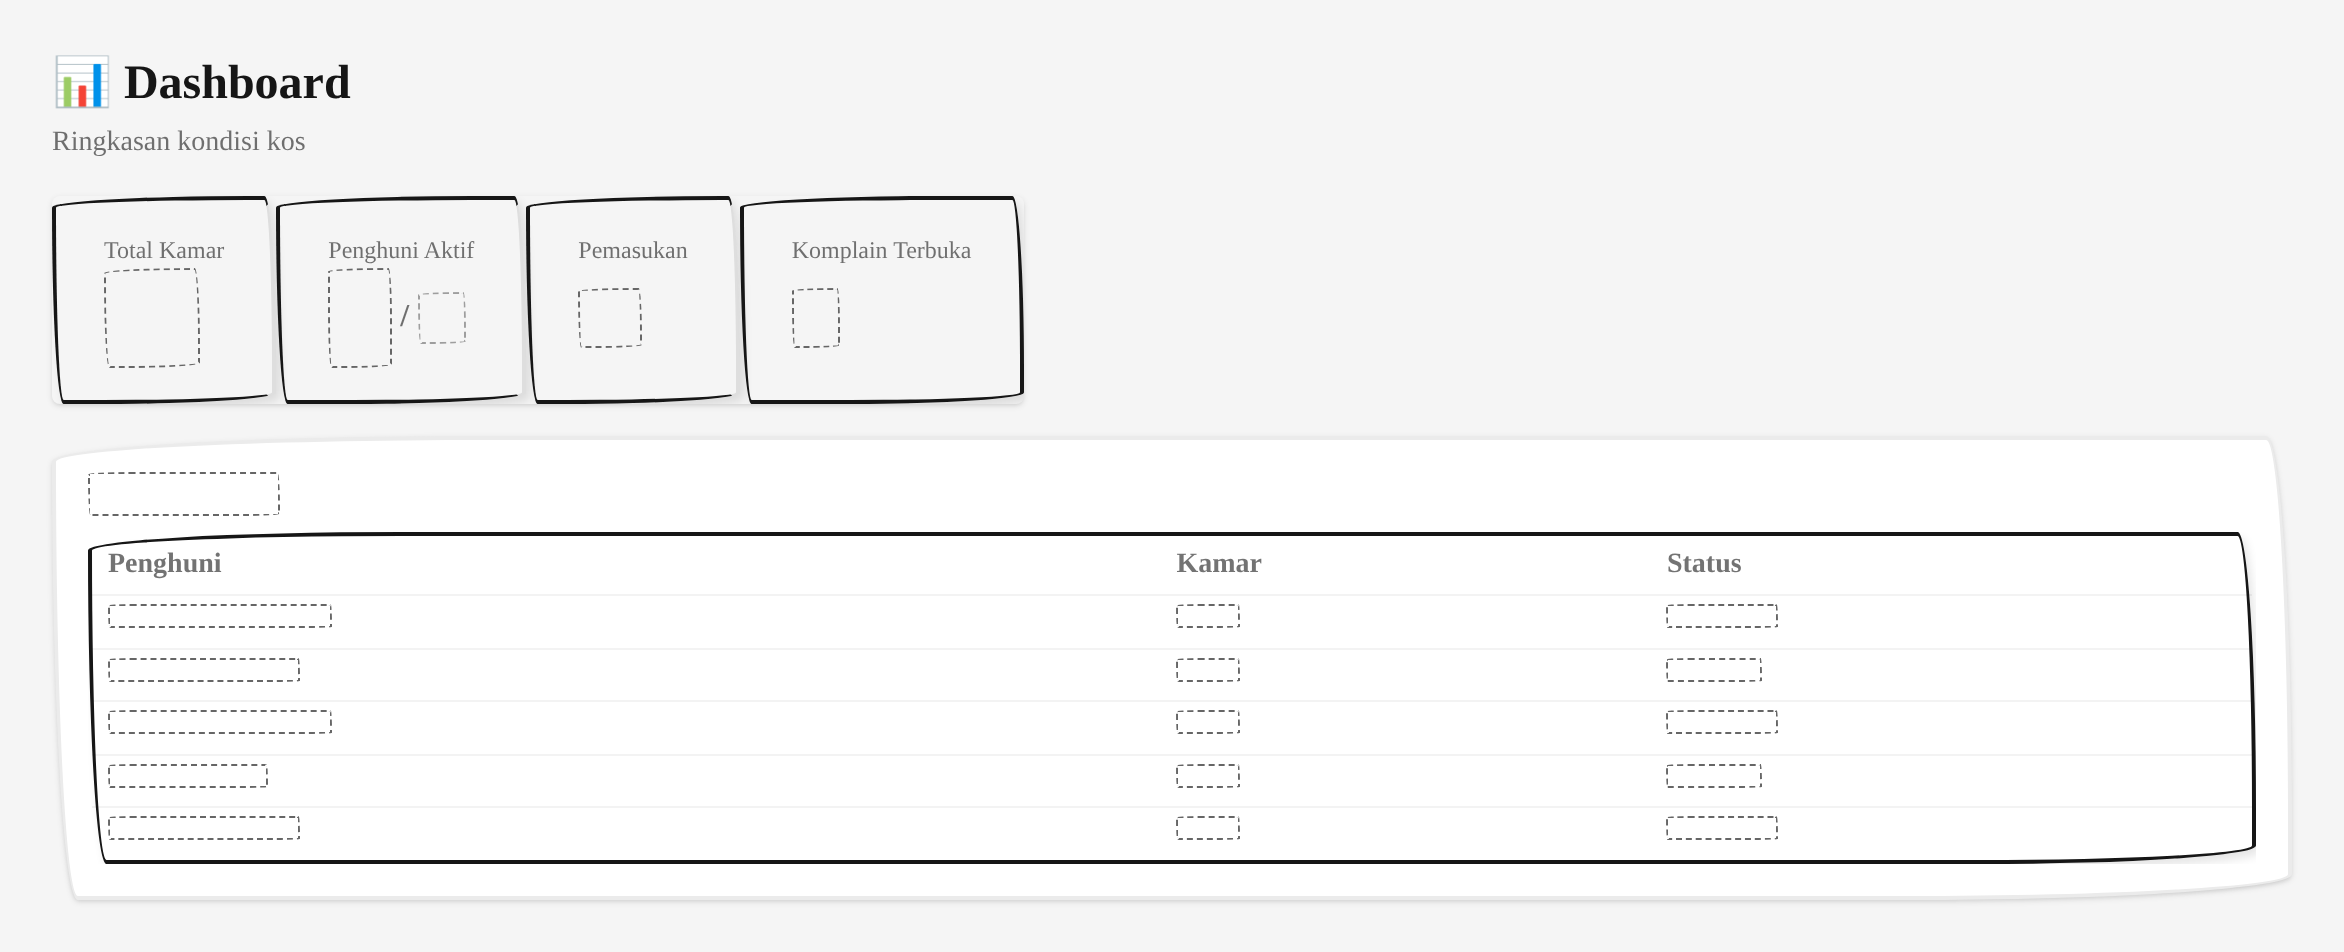
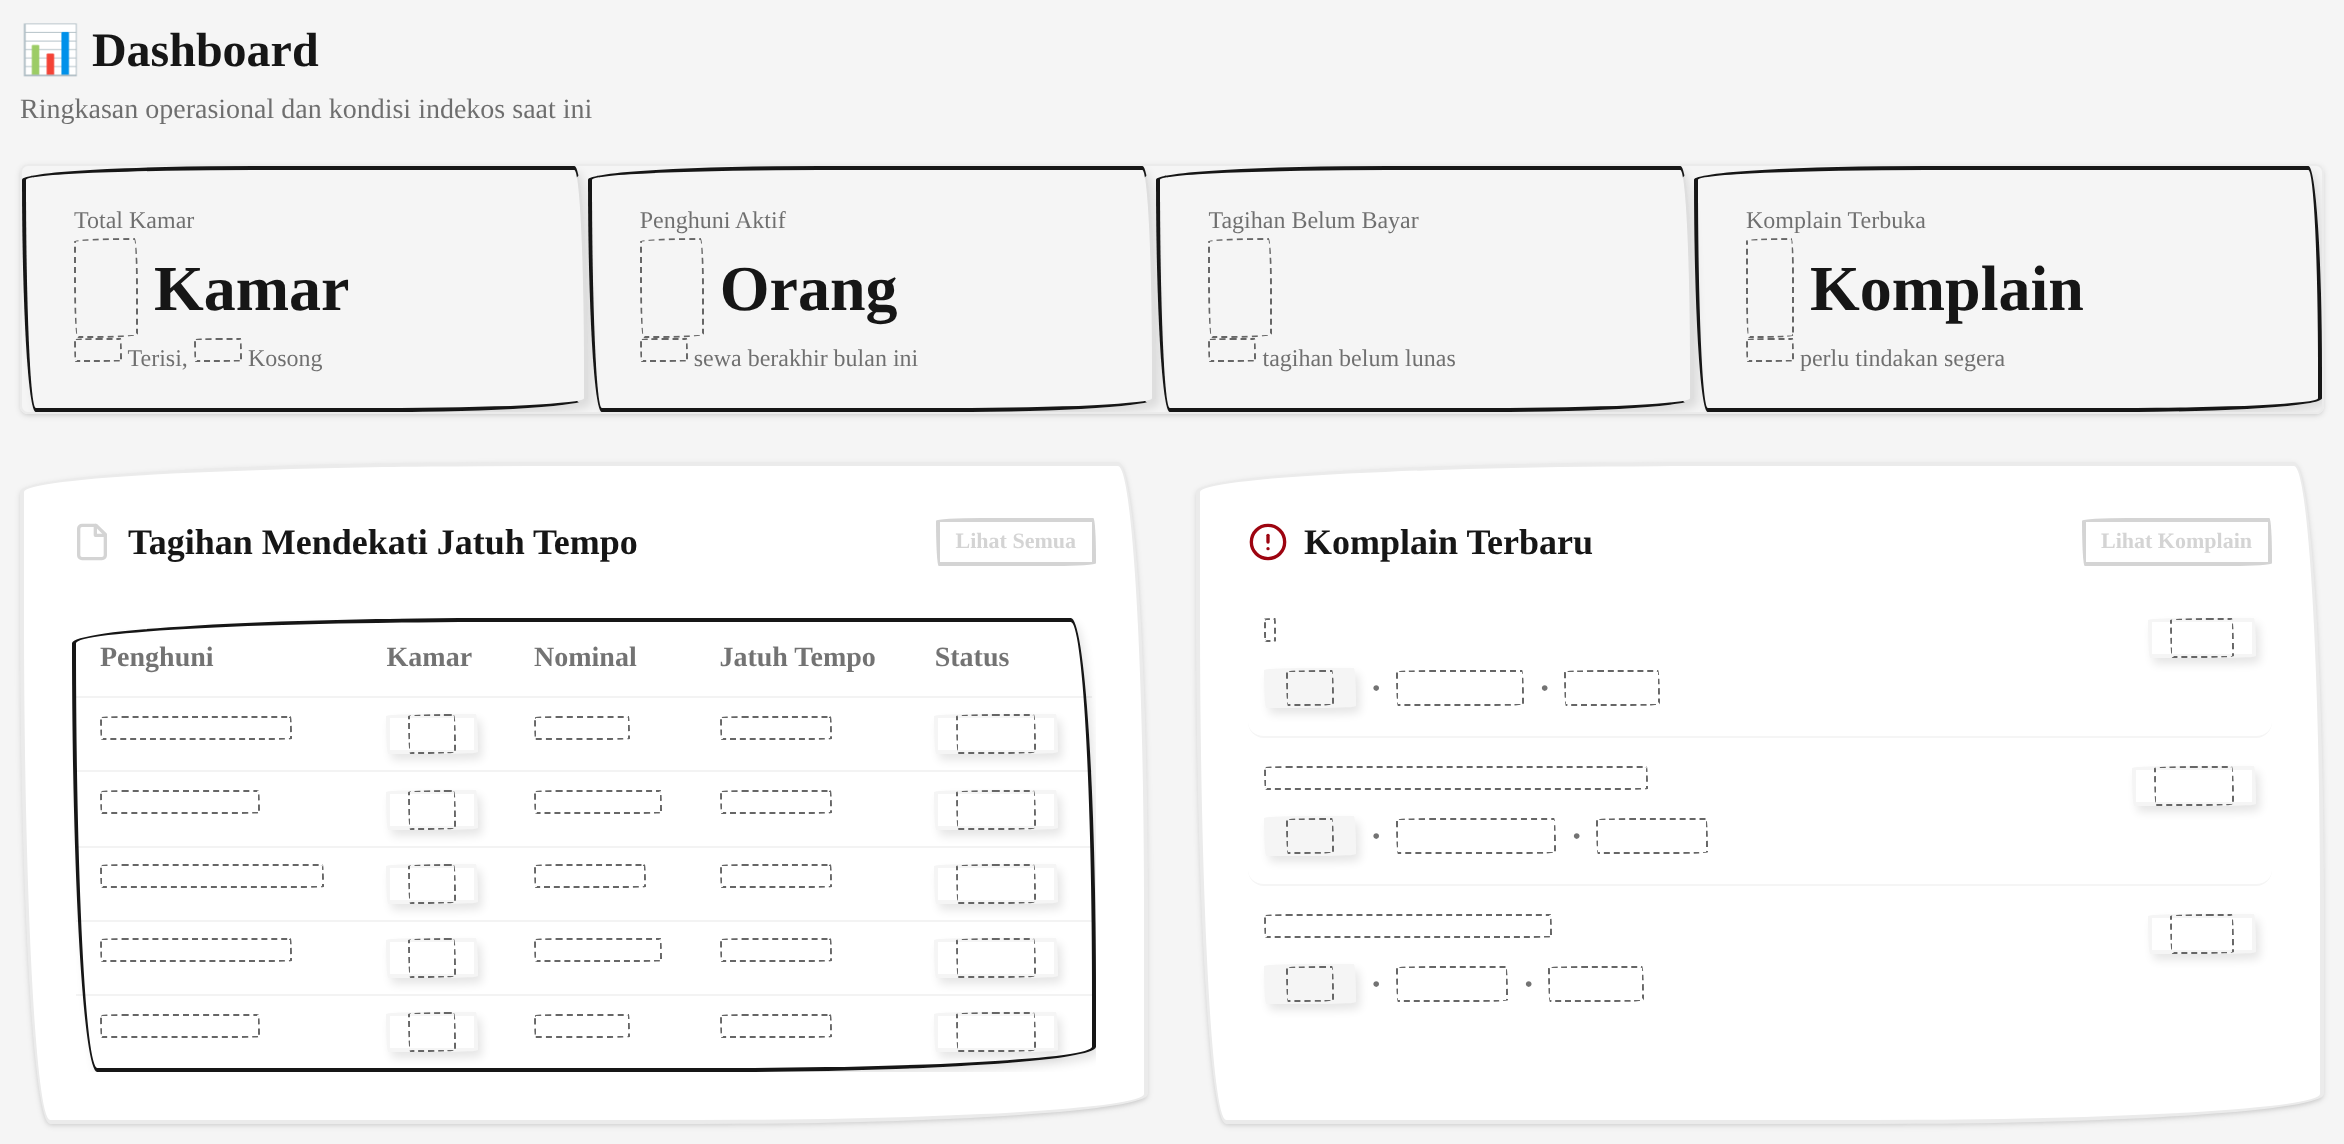
chore: dashboard sesuai site (2 card + stats desc)

diff --git a/docs/wireframe-v2/input/dashboard.html b/docs/wireframe-v2/input/dashboard.html
@@ -1,121 +1,50 @@
 <!doctype html>
 <html lang="id" data-theme="wireframe">
-	<head>
-		<meta charset="UTF-8" />
-		<meta name="viewport" content="width=device-width,initial-scale=1.0" />
-		<title>Wireframe · Dashboard</title>
-		<link rel="stylesheet" href="../dist/style.css" />
-	</head>
-	<body class="bg-base-200 p-4">
-		<div class="mx-auto max-w-6xl p-4">
-			<h1 class="mb-1 text-2xl font-bold">📊 Dashboard</h1>
-			<p class="mb-4 text-sm opacity-60">Ringkasan kondisi kos</p>
+<head><meta charset="UTF-8"/><meta name="viewport" content="width=device-width,initial-scale=1.0"/><title>Wireframe · Dashboard</title><link rel="stylesheet" href="../dist/style.css"/></head>
+<body class="bg-base-200 p-4">
+<div class="mx-auto max-w-6xl">
+<h1 class="mb-1 text-2xl font-bold">📊 Dashboard</h1>
+<p class="mb-4 text-sm opacity-60">Ringkasan operasional dan kondisi indekos saat ini</p>
 
-			<div class="stats stats-vertical shadow sm:stats-horizontal">
-				<div class="stat">
-					<div class="stat-title">Total Kamar</div>
-					<div class="stat-value">
-						<span class="inline-block w-12 skeleton">&nbsp;</span>
-					</div>
-				</div>
-				<div class="stat">
-					<div class="stat-title">Penghuni Aktif</div>
-					<div class="stat-value flex items-center gap-1">
-						<span class="inline-block w-8 skeleton">&nbsp;</span
-						><span class="text-base opacity-60"
-							>/ <span class="inline-block w-6 skeleton">&nbsp;</span></span
-						>
-					</div>
-				</div>
-				<div class="stat">
-					<div class="stat-title">Pemasukan</div>
-					<div class="stat-value text-xl">
-						<span class="inline-block w-8 skeleton">&nbsp;</span>
-					</div>
-				</div>
-				<div class="stat">
-					<div class="stat-title">Komplain Terbuka</div>
-					<div class="stat-value text-xl">
-						<span class="inline-block w-6 skeleton">&nbsp;</span>
-					</div>
-				</div>
-			</div>
+<div class="stats mb-6 w-full stats-vertical border border-base-300 shadow-sm sm:stats-horizontal">
+<div class="stat"><div class="stat-title">Total Kamar</div><div class="stat-value"><span class="inline-block w-8 skeleton">&nbsp;</span> Kamar</div><div class="stat-desc"><span class="inline-block h-3 w-6 skeleton">&nbsp;</span> Terisi, <span class="inline-block h-3 w-6 skeleton">&nbsp;</span> Kosong</div></div>
+<div class="stat"><div class="stat-title">Penghuni Aktif</div><div class="stat-value"><span class="inline-block w-8 skeleton">&nbsp;</span> Orang</div><div class="stat-desc"><span class="inline-block h-3 w-6 skeleton">&nbsp;</span> sewa berakhir bulan ini</div></div>
+<div class="stat"><div class="stat-title">Tagihan Belum Bayar</div><div class="stat-value"><span class="inline-block w-8 skeleton">&nbsp;</span></div><div class="stat-desc"><span class="inline-block h-3 w-6 skeleton">&nbsp;</span> tagihan belum lunas</div></div>
+<div class="stat"><div class="stat-title">Komplain Terbuka</div><div class="stat-value"><span class="inline-block w-6 skeleton">&nbsp;</span> Komplain</div><div class="stat-desc"><span class="inline-block h-3 w-6 skeleton">&nbsp;</span> perlu tindakan segera</div></div>
+</div>
 
-			<div class="card mt-4 border border-base-300 bg-base-100 shadow-sm">
-				<div class="card-body p-4">
-					<h2 class="card-title text-sm">
-						<span class="inline-block w-24 skeleton">&nbsp;</span>
-					</h2>
-					<div class="overflow-x-auto">
-						<table class="table table-xs">
-							<thead>
-								<tr>
-									<th>Penghuni</th>
-									<th>Kamar</th>
-									<th>Status</th>
-								</tr>
-							</thead>
-							<tbody>
-								<tr>
-									<td>
-										<span class="inline-block h-3 w-28 skeleton">&nbsp;</span>
-									</td>
-									<td>
-										<span class="inline-block h-3 w-8 skeleton">&nbsp;</span>
-									</td>
-									<td>
-										<span class="inline-block h-3 w-14 skeleton">&nbsp;</span>
-									</td>
-								</tr>
-								<tr>
-									<td>
-										<span class="inline-block h-3 w-24 skeleton">&nbsp;</span>
-									</td>
-									<td>
-										<span class="inline-block h-3 w-8 skeleton">&nbsp;</span>
-									</td>
-									<td>
-										<span class="inline-block h-3 w-12 skeleton">&nbsp;</span>
-									</td>
-								</tr>
-								<tr>
-									<td>
-										<span class="inline-block h-3 w-28 skeleton">&nbsp;</span>
-									</td>
-									<td>
-										<span class="inline-block h-3 w-8 skeleton">&nbsp;</span>
-									</td>
-									<td>
-										<span class="inline-block h-3 w-14 skeleton">&nbsp;</span>
-									</td>
-								</tr>
-								<tr>
-									<td>
-										<span class="inline-block h-3 w-20 skeleton">&nbsp;</span>
-									</td>
-									<td>
-										<span class="inline-block h-3 w-8 skeleton">&nbsp;</span>
-									</td>
-									<td>
-										<span class="inline-block h-3 w-12 skeleton">&nbsp;</span>
-									</td>
-								</tr>
-								<tr>
-									<td>
-										<span class="inline-block h-3 w-24 skeleton">&nbsp;</span>
-									</td>
-									<td>
-										<span class="inline-block h-3 w-8 skeleton">&nbsp;</span>
-									</td>
-									<td>
-										<span class="inline-block h-3 w-14 skeleton">&nbsp;</span>
-									</td>
-								</tr>
-							</tbody>
-						</table>
-					</div>
-				</div>
-			</div>
-		</div>
-	</body>
+<div class="grid grid-cols-1 gap-6 lg:grid-cols-2">
+<div class="card border border-base-300 bg-base-100 shadow-sm">
+<div class="card-body p-6">
+<div class="mb-4 flex items-center justify-between">
+<h2 class="card-title text-lg font-bold">
+<svg class="text-primary size-5" xmlns="http://www.w3.org/2000/svg" width="20" height="20" viewBox="0 0 24 24" fill="none" stroke="currentColor" stroke-width="2" stroke-linecap="round" stroke-linejoin="round"><path d="M14.5 2H6a2 2 0 0 0-2 2v16a2 2 0 0 0 2 2h12a2 2 0 0 0 2-2V7.5L14.5 2z"/><polyline points="14 2 14 8 20 8"/></svg>
+Tagihan Mendekati Jatuh Tempo</h2>
+<button class="btn btn-outline btn-primary btn-xs">Lihat Semua</button>
+</div>
+<div class="overflow-x-auto"><table class="table w-full table-sm"><thead><tr><th>Penghuni</th><th>Kamar</th><th>Nominal</th><th>Jatuh Tempo</th><th>Status</th></tr></thead><tbody>
+<tr><td><span class="inline-block h-3 w-24 skeleton">&nbsp;</span></td><td><span class="badge badge-sm font-mono"><span class="inline-block h-2 w-6 skeleton">&nbsp;</span></span></td><td class="font-mono"><span class="inline-block h-3 w-12 skeleton">&nbsp;</span></td><td class="font-mono"><span class="inline-block h-3 w-14 skeleton">&nbsp;</span></td><td><span class="badge badge-sm"><span class="inline-block h-2 w-10 skeleton">&nbsp;</span></span></td></tr>
+<tr><td><span class="inline-block h-3 w-20 skeleton">&nbsp;</span></td><td><span class="badge badge-sm font-mono"><span class="inline-block h-2 w-6 skeleton">&nbsp;</span></span></td><td class="font-mono"><span class="inline-block h-3 w-16 skeleton">&nbsp;</span></td><td class="font-mono"><span class="inline-block h-3 w-14 skeleton">&nbsp;</span></td><td><span class="badge badge-sm"><span class="inline-block h-2 w-10 skeleton">&nbsp;</span></span></td></tr>
+<tr><td><span class="inline-block h-3 w-28 skeleton">&nbsp;</span></td><td><span class="badge badge-sm font-mono"><span class="inline-block h-2 w-6 skeleton">&nbsp;</span></span></td><td class="font-mono"><span class="inline-block h-3 w-14 skeleton">&nbsp;</span></td><td class="font-mono"><span class="inline-block h-3 w-14 skeleton">&nbsp;</span></td><td><span class="badge badge-sm"><span class="inline-block h-2 w-10 skeleton">&nbsp;</span></span></td></tr>
+<tr><td><span class="inline-block h-3 w-24 skeleton">&nbsp;</span></td><td><span class="badge badge-sm font-mono"><span class="inline-block h-2 w-6 skeleton">&nbsp;</span></span></td><td class="font-mono"><span class="inline-block h-3 w-16 skeleton">&nbsp;</span></td><td class="font-mono"><span class="inline-block h-3 w-14 skeleton">&nbsp;</span></td><td><span class="badge badge-sm"><span class="inline-block h-2 w-10 skeleton">&nbsp;</span></span></td></tr>
+<tr><td><span class="inline-block h-3 w-20 skeleton">&nbsp;</span></td><td><span class="badge badge-sm font-mono"><span class="inline-block h-2 w-6 skeleton">&nbsp;</span></span></td><td class="font-mono"><span class="inline-block h-3 w-12 skeleton">&nbsp;</span></td><td class="font-mono"><span class="inline-block h-3 w-14 skeleton">&nbsp;</span></td><td><span class="badge badge-sm"><span class="inline-block h-2 w-10 skeleton">&nbsp;</span></span></td></tr>
+</tbody></table></div>
+</div></div>
+
+<div class="card border border-base-300 bg-base-100 shadow-sm">
+<div class="card-body p-6">
+<div class="mb-4 flex items-center justify-between">
+<h2 class="card-title text-lg font-bold">
+<svg class="text-error size-5" xmlns="http://www.w3.org/2000/svg" width="20" height="20" viewBox="0 0 24 24" fill="none" stroke="currentColor" stroke-width="2" stroke-linecap="round" stroke-linejoin="round"><circle cx="12" cy="12" r="10"/><line x1="12" y1="8" x2="12" y2="12"/><line x1="12" y1="16" x2="12.01" y2="16"/></svg>
+Komplain Terbaru</h2>
+<button class="btn btn-outline btn-primary btn-xs">Lihat Komplain</button>
+</div>
+<div class="divide-y divide-base-200">
+<div class="flex items-start justify-between rounded-lg px-2 py-3.5 transition-colors first:pt-0 last:pb-0 hover:bg-base-200/20"><div class="flex flex-col gap-1"><span class="text-sm font-bold"><span class="inline-block h-3 w-40 skeleton">&nbsp;</span></span><div class="flex flex-wrap items-center gap-2 text-xs text-base-content/60"><span class="badge badge-ghost badge-sm"><span class="inline-block h-2 w-6 skeleton">&nbsp;</span></span><span>&bull;</span><span><span class="inline-block h-2 w-16 skeleton">&nbsp;</span></span><span>&bull;</span><span><span class="inline-block h-2 w-12 skeleton">&nbsp;</span></span></div></div><span class="badge badge-sm"><span class="inline-block h-2 w-8 skeleton">&nbsp;</span></span></div>
+<div class="flex items-start justify-between rounded-lg px-2 py-3.5 transition-colors hover:bg-base-200/20"><div class="flex flex-col gap-1"><span class="text-sm font-bold"><span class="inline-block h-3 w-48 skeleton">&nbsp;</span></span><div class="flex flex-wrap items-center gap-2 text-xs text-base-content/60"><span class="badge badge-ghost badge-sm"><span class="inline-block h-2 w-6 skeleton">&nbsp;</span></span><span>&bull;</span><span><span class="inline-block h-2 w-20 skeleton">&nbsp;</span></span><span>&bull;</span><span><span class="inline-block h-2 w-14 skeleton">&nbsp;</span></span></div></div><span class="badge badge-sm"><span class="inline-block h-2 w-10 skeleton">&nbsp;</span></span></div>
+<div class="flex items-start justify-between rounded-lg px-2 py-3.5 transition-colors last:pb-0 hover:bg-base-200/20"><div class="flex flex-col gap-1"><span class="text-sm font-bold"><span class="inline-block h-3 w-36 skeleton">&nbsp;</span></span><div class="flex flex-wrap items-center gap-2 text-xs text-base-content/60"><span class="badge badge-ghost badge-sm"><span class="inline-block h-2 w-6 skeleton">&nbsp;</span></span><span>&bull;</span><span><span class="inline-block h-2 w-14 skeleton">&nbsp;</span></span><span>&bull;</span><span><span class="inline-block h-2 w-12 skeleton">&nbsp;</span></span></div></div><span class="badge badge-sm"><span class="inline-block h-2 w-8 skeleton">&nbsp;</span></span></div>
+</div>
+</div></div>
+</div>
+</div></body>
 </html>